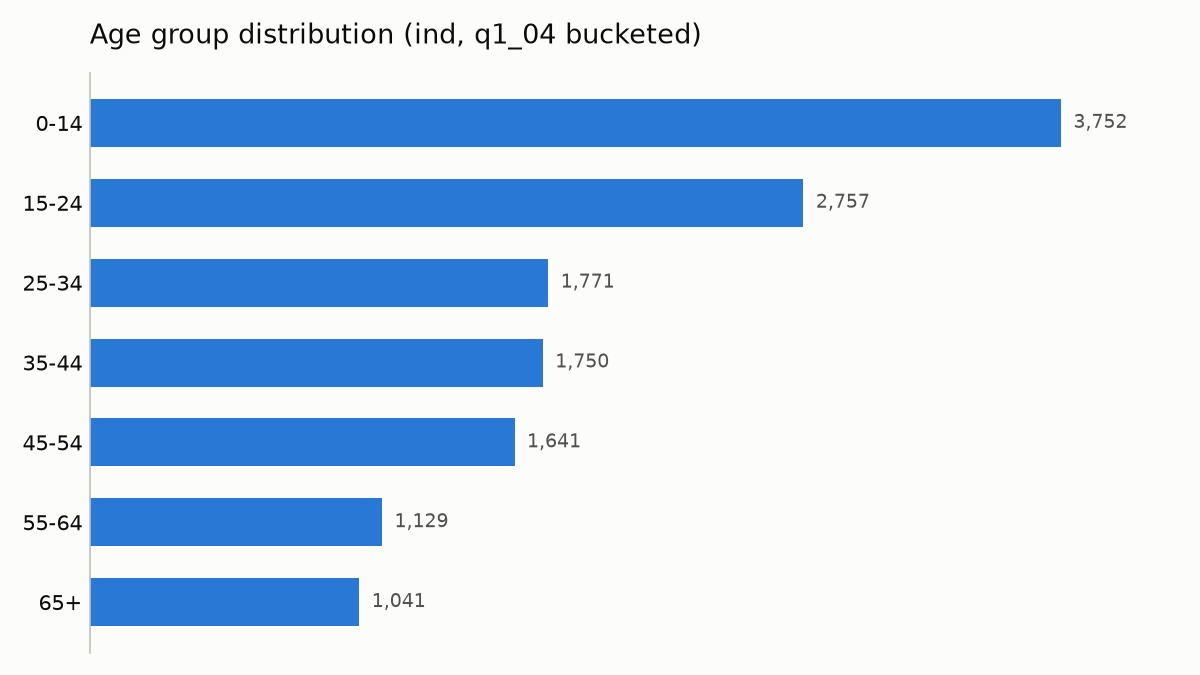
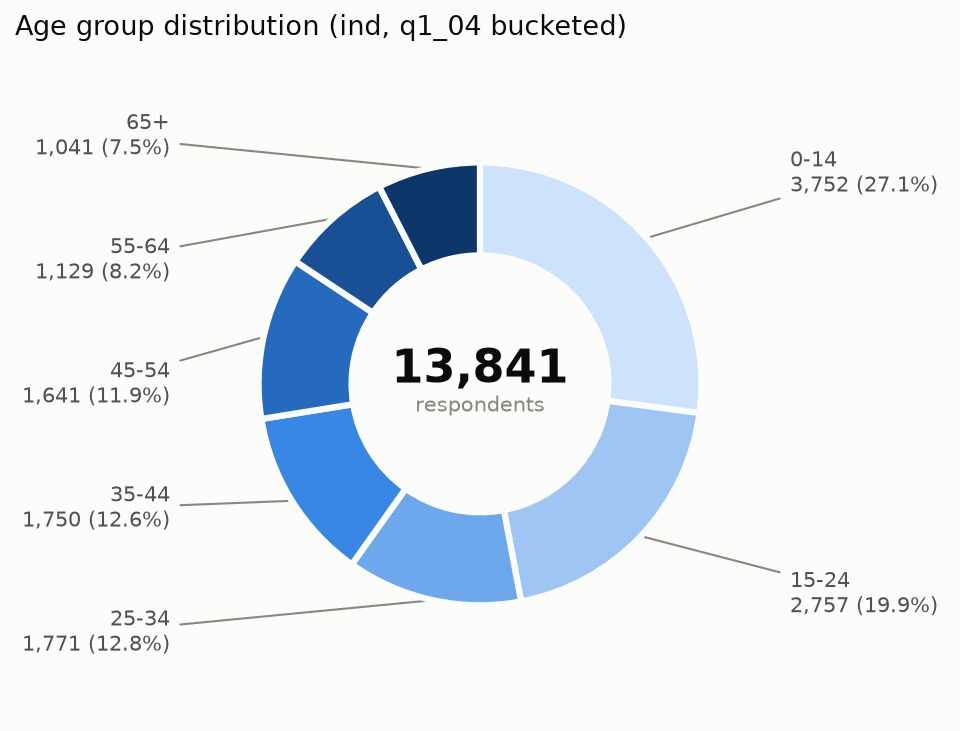
Switch charts from bar to donut, per direction
Replaces plot_distribution() (horizontal bar) with plot_donut(): centered
total-N figure, every wedge externally labeled (name/count/%) on a leader
line instead of a legend box, fixed-order categorical hues for the nominal
variables (sex, employment status) but a light->dark sequential blue ramp
for age group since it's ordinal, not arbitrary categories.

Fixed two real rendering bugs found by actually looking at the output
(per the dataviz skill's "render it and look at it" step): the long
"Employee (for another person...)" label went unwrapped and blew out the
figure bounds, squashing everything else -- fixed by reusing the
_wrap_label() helper and switching to bbox_inches="tight" on save. Then
the two small adjacent employment-status wedges (4.6% and 5.7%) produced
overlapping labels with a fixed-angle connector that swung wildly across
the chart -- fixed by spacing labels evenly within each side (left/right)
and switching to a straight-line connector.

README updated to describe donuts instead of bars, including the
dataviz-skill note that a stacked bar is actually the more precise form
for part-to-whole comparison -- donuts are a deliberate choice here, not
a default.

diff --git a/Scripts/visualize.py b/Scripts/visualize.py
@@ -1,17 +1,25 @@
 """Charts for the named-variable distributions from diagnose.py (sex, age
 groups, employment status), saved as JPEG to Outputs/charts/.
 
-These are static report charts, not an interactive web component, so this
-follows the project's dataviz skill's form/color/label rules (single hue
-for a single-series bar chart -- the axis labels already carry category
-identity, so per-bar hue would be decorative, not informative; recessive
-gridlines; selective direct labels; no chart junk) but skips the parts
-specific to interactive HTML (hover tooltips, dark-mode toggle, JS palette
+Donut charts with a centered total-N figure and external leader-line
+labels. Static report charts, not an interactive web component, so this
+follows the project's dataviz skill's color/label rules (fixed-order
+categorical hues for nominal variables; a single-hue light->dark ramp for
+the age groups, since age is ordinal, not arbitrary categories; text never
+carries the series color; a legend would only restate what's already on
+every wedge's direct label, so it's skipped) but skips the parts specific
+to interactive HTML (hover tooltips, dark-mode toggle, JS palette
 validator) since there's no such runtime here.
+
+Note: the dataviz skill's own form guidance recommends a (horizontal)
+stacked bar over a pie for part-to-whole comparison -- bar length is easier
+to judge precisely than wedge angle/area. Donuts here are a deliberate
+choice for these specific 2-7 category shares, not a default to reach for.
 """
 
 import textwrap
 
+import numpy as np
 import matplotlib.pyplot as plt
 import pandas as pd
 
@@ -20,64 +28,113 @@ from diagnose import age_group_distribution, load_typed, value_counts_labeled
 
 # Validated default palette (dataviz skill, references/palette.md), light surface.
 _SURFACE = "#fcfcfb"
-_BAR_COLOR = "#2a78d6"  # categorical slot 1 (blue) -- single-series, single hue
 _PRIMARY_INK = "#0b0b0b"
 _SECONDARY_INK = "#52514e"
-_GRIDLINE = "#e1e0d9"
-_BASELINE = "#c3c2b7"
+_MUTED_INK = "#898781"
+
+# Categorical slots, fixed order -- for nominal variables (sex, employment status).
+_CATEGORICAL = ["#2a78d6", "#eb6834", "#1baf7a", "#eda100", "#e87ba4", "#008300", "#4a3aa7", "#e34948"]
+
+# Sequential blue ramp, light->dark -- for the ordinal age-group variable.
+_SEQUENTIAL_BLUE = ["#cde2fb", "#9ec5f4", "#6da7ec", "#3987e5", "#256abf", "#184f95", "#0d366b"]
 
 
-def _wrap_label(text: str, width: int = 28) -> str:
-    """Wrap a category label for display on a chart axis. Display-only --
-    never mutates the underlying data/tables, just what's drawn."""
+def _wrap_label(text: str, width: int = 24) -> str:
+    """Wrap a category label for display on a chart. Display-only -- never
+    mutates the underlying data/tables, just what's drawn."""
     return "\n".join(textwrap.wrap(str(text), width=width)) or str(text)
 
 
-def plot_distribution(table: pd.DataFrame, title: str, out_path, figsize=(8, 4.5)) -> None:
-    """Horizontal single-series bar chart of a value_counts_labeled()-shaped
-    table (columns: label, count, pct_of_valid). Horizontal bars handle the
-    long category text some of these variables have (e.g. employment
-    status) without label collisions. Saves a JPEG to out_path."""
-    plot_table = table.iloc[::-1]  # reverse: barh draws bottom-up, so largest ends up on top
-    labels = [_wrap_label(label) for label in plot_table["label"]]
+def _donut_colors(n: int, mode: str) -> list:
+    if mode == "sequential":
+        # Evenly sample the 7-step ramp down to however many slices exist.
+        idx = np.linspace(0, len(_SEQUENTIAL_BLUE) - 1, n).round().astype(int)
+        return [_SEQUENTIAL_BLUE[i] for i in idx]
+    return [_CATEGORICAL[i % len(_CATEGORICAL)] for i in range(n)]
 
-    fig, ax = plt.subplots(figsize=figsize, dpi=150)
-    bars = ax.barh(labels, plot_table["count"], height=0.6, color=_BAR_COLOR)
 
-    ax.set_facecolor(_SURFACE)
+def plot_donut(
+    table: pd.DataFrame,
+    title: str,
+    out_path,
+    color_mode: str = "categorical",
+    center_label: str = "",
+    figsize=(8, 7),
+) -> None:
+    """Donut chart of a value_counts_labeled()-shaped table (columns: label,
+    count, pct_of_valid), sorted largest-first starting at 12 o'clock,
+    clockwise. Every wedge gets an external label (name, count, %) connected
+    by a thin leader line -- no legend, since the labels already carry
+    identity. Saves a JPEG to out_path."""
+    colors = _donut_colors(len(table), color_mode)
+
+    fig, ax = plt.subplots(figsize=figsize, dpi=150, subplot_kw=dict(aspect="equal"))
     fig.set_facecolor(_SURFACE)
-    for side in ("top", "right", "bottom"):
-        ax.spines[side].set_visible(False)
-    ax.spines["left"].set_color(_BASELINE)
-    ax.xaxis.grid(True, color=_GRIDLINE, linewidth=1)
-    ax.set_axisbelow(True)
-    ax.xaxis.set_ticks([])
-    ax.tick_params(axis="y", colors=_PRIMARY_INK, labelsize=10, length=0)
-    ax.set_title(title, fontsize=13, color=_PRIMARY_INK, loc="left", pad=14)
-    ax.margins(x=0.12)  # room for the tip labels
+    ax.set_facecolor(_SURFACE)
 
-    # Selective direct labels: value at the tip of every bar -- with at most
-    # 7 bars per chart here, this stays readable instead of becoming noise.
-    for bar, count in zip(bars, plot_table["count"]):
-        ax.annotate(
-            f"{count:,}",
-            xy=(bar.get_width(), bar.get_y() + bar.get_height() / 2),
-            xytext=(6, 0),
-            textcoords="offset points",
-            ha="left",
-            va="center",
-            fontsize=9,
-            color=_SECONDARY_INK,
-        )
+    wedges, _ = ax.pie(
+        table["count"],
+        colors=colors,
+        startangle=90,
+        counterclock=False,
+        radius=1.0,
+        wedgeprops=dict(width=0.42, edgecolor=_SURFACE, linewidth=3),
+    )
 
-    fig.tight_layout()
-    fig.savefig(out_path, format="jpeg", pil_kwargs={"quality": 92})
+    # Center figure: total N across every wedge (valid responses only).
+    total = int(table["count"].sum())
+    ax.text(0, 0.06, f"{total:,}", ha="center", va="center", fontsize=22, color=_PRIMARY_INK, weight="bold")
+    ax.text(0, -0.10, center_label, ha="center", va="center", fontsize=10, color=_MUTED_INK)
+
+    # External labels on leader lines, with collision avoidance: labels on
+    # the same side (left/right) are evenly spread top-to-bottom rather
+    # than placed at their raw wedge angle, so two small adjacent wedges
+    # (close in angle) never produce overlapping label text.
+    items = []
+    for wedge, (_, row) in zip(wedges, table.iterrows()):
+        ang = (wedge.theta2 - wedge.theta1) / 2 + wedge.theta1
+        x, y = np.cos(np.deg2rad(ang)), np.sin(np.deg2rad(ang))
+        items.append({"ang": ang, "x": x, "y": y, "row": row})
+
+    bbox_props = dict(boxstyle="round,pad=0.3", fc=_SURFACE, ec="none")
+    for side_items, ha, x_text in (
+        (sorted([it for it in items if it["x"] < 0], key=lambda it: -it["y"]), "right", -1.4),
+        (sorted([it for it in items if it["x"] >= 0], key=lambda it: -it["y"]), "left", 1.4),
+    ):
+        n = len(side_items)
+        if n == 0:
+            continue
+        top = max(0.95, max(it["y"] for it in side_items) * 1.15)
+        bottom = min(-0.95, min(it["y"] for it in side_items) * 1.15)
+        y_positions = [top] if n == 1 else np.linspace(top, bottom, n)
+        for it, y_pos in zip(side_items, y_positions):
+            row = it["row"]
+            label_text = f"{_wrap_label(row['label'])}\n{row['count']:,} ({row['pct_of_valid']:.1f}%)"
+            ax.annotate(
+                label_text,
+                xy=(it["x"], it["y"]),
+                xytext=(x_text, y_pos),
+                horizontalalignment=ha,
+                va="center",
+                fontsize=10,
+                color=_SECONDARY_INK,
+                bbox=bbox_props,
+                arrowprops=dict(arrowstyle="-", color=_MUTED_INK, lw=1, connectionstyle="arc3,rad=0"),
+                zorder=0,
+            )
+
+    ax.set_title(title, fontsize=13, color=_PRIMARY_INK, loc="left", pad=8)
+    ax.set_xlim(-2.1, 2.1)
+    ax.set_ylim(-1.5, 1.5)
+
+    fig.savefig(out_path, format="jpeg", pil_kwargs={"quality": 92}, bbox_inches="tight", facecolor=_SURFACE)
     plt.close(fig)
 
 
 def make_charts(datasets: dict) -> dict:
     """Generate the three named-variable distribution charts for ind (sex,
-    age group, employment status) as JPEG. Returns {chart_name: output_path}."""
+    age group, employment status) as JPEG donut charts. Returns
+    {chart_name: output_path}."""
     df = load_typed("ind", datasets)
 
     sex_table, _ = value_counts_labeled(df["q1_03"])
@@ -85,15 +142,25 @@ def make_charts(datasets: dict) -> dict:
     emp_table, _ = value_counts_labeled(df["q3_16"])
 
     charts = {
-        "sex_distribution": (sex_table, "Sex distribution (ind, q1_03)"),
-        "age_group_distribution": (age_table, "Age group distribution (ind, q1_04 bucketed)"),
-        "employment_status_distribution": (emp_table, "Employment status, main job (ind, q3_16)"),
+        "sex_distribution": (sex_table, "Sex distribution (ind, q1_03)", "categorical", "respondents"),
+        "age_group_distribution": (
+            age_table,
+            "Age group distribution (ind, q1_04 bucketed)",
+            "sequential",
+            "respondents",
+        ),
+        "employment_status_distribution": (
+            emp_table,
+            "Employment status, main job (ind, q3_16)",
+            "categorical",
+            "with a main job",
+        ),
     }
 
     out_paths = {}
-    for chart_name, (table, title) in charts.items():
+    for chart_name, (table, title, color_mode, center_label) in charts.items():
         out_path = config.CHARTS_DIR / f"{chart_name}.jpg"
-        plot_distribution(table, title, out_path)
+        plot_donut(table, title, out_path, color_mode=color_mode, center_label=center_label)
         out_paths[chart_name] = out_path
         print(f"-> {out_path}")
 

diff --git a/README.md b/README.md
@@ -18,7 +18,7 @@ actual dtype conversion and exploratory diagnostics. Current state:
 - `Scripts/diagnose.py` — missingness, duplicate-key, and range-check
   diagnostics on the typed data, plus a named-variable distribution/
   recommendations spotlight (sex, age groups, employment status)
-- `Scripts/visualize.py` — renders those three distributions as JPEG bar
+- `Scripts/visualize.py` — renders those three distributions as JPEG donut
   charts
 - `Outputs/` — regenerated by running `ingest.py`, `diagnose.py`, then
   `visualize.py`
@@ -36,7 +36,7 @@ Scripts/
   config.py                  every path used by the pipeline, in one place
   ingest.py                  load + validate + verify counts + dtype recommend/apply + metadata-exploration helpers
   diagnose.py                missingness + duplicates + range checks + named-variable distributions/recommendations
-  visualize.py                renders the named-variable distributions as JPEG bar charts
+  visualize.py                renders the named-variable distributions as JPEG donut charts
 Outputs/
   interim/                    raw string-typed parquet cache (untouched safety net, gitignored)
   typed/                      dtype-converted parquet, derived from interim/ (gitignored)
@@ -95,16 +95,28 @@ python Scripts/visualize.py
 ```
 
 Renders the same three `ind` distributions (sex, age group, employment
-status) as horizontal bar charts, saved as JPEG to `Outputs/charts/`:
+status) as donut charts, saved as JPEG to `Outputs/charts/`:
 `sex_distribution.jpg`, `age_group_distribution.jpg`,
-`employment_status_distribution.jpg`. One consistent theme across all three
-(same palette, single blue hue since each is a single-series chart — the
-axis labels already carry category identity, so per-bar color would be
-decorative, not informative), horizontal bars so the longer category text
-(employment status) doesn't collide, and a direct value label at every bar's
-tip since each chart has at most 7 bars. `Scripts/visualize.py` reuses
-`diagnose.py`'s `value_counts_labeled()`/`age_group_distribution()` rather
-than recomputing anything, so the chart numbers always match the diagnostics
+`employment_status_distribution.jpg`. One consistent theme across all
+three: a centered total-N figure, every wedge externally labeled (name,
+count, %) on a leader line rather than a legend box, fixed-order
+categorical hues for the two nominal variables (sex, employment status —
+each category is a genuinely distinct identity) but a single light→dark
+blue ramp for age group (an ordinal variable — the gradient reads as a
+progression, not arbitrary colors). Label placement avoids overlap by
+spacing labels evenly within each side (left/right) rather than at each
+wedge's raw angle, which matters for the employment-status chart where two
+small adjacent wedges (4.6% and 5.7%) would otherwise collide.
+
+Note: the project's dataviz skill actually recommends a horizontal stacked
+bar over a pie/donut for part-to-whole comparison — bar length is easier to
+judge precisely than wedge angle. Donuts were a deliberate choice here for
+these specific 2–4–7 category shares (a completely normal, accepted chart
+type at this scale), not the default to reach for generally.
+
+`Scripts/visualize.py` reuses `diagnose.py`'s
+`value_counts_labeled()`/`age_group_distribution()` rather than
+recomputing anything, so the chart numbers always match the diagnostics
 report.
 
 ## Metadata-exploration helpers (`Scripts/ingest.py`)
